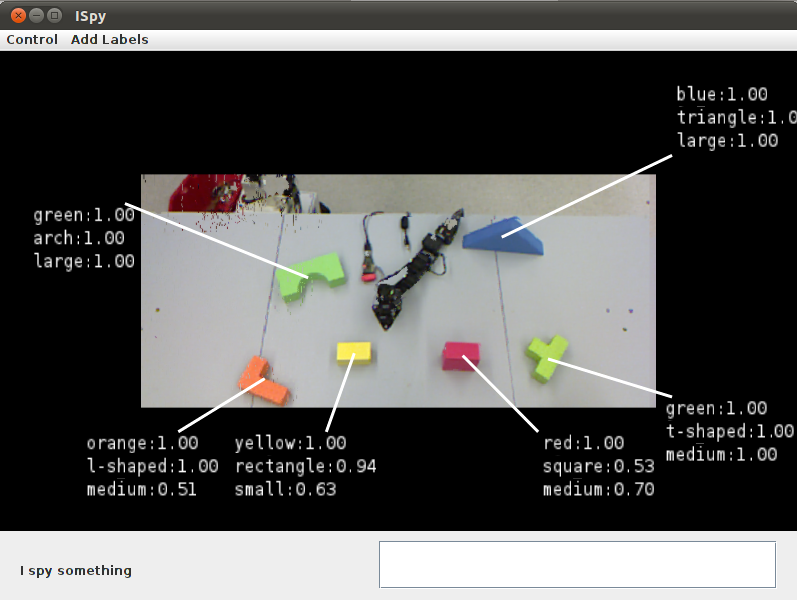
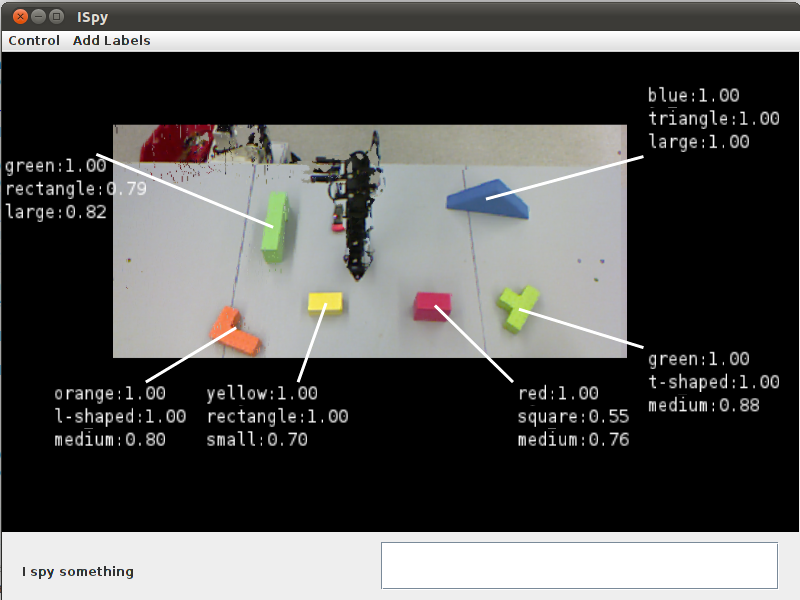
added scenario

diff --git a/finalReport/finalReport.tex b/finalReport/finalReport.tex
@@ -310,10 +310,10 @@ prompted to identify the correct object. The thresholds for the incorrect
 labels are then increased so that in the future, the system will be more
 likely to nudge them.
 
-\xxx{Justify min/max}
 The thresholds are adjusted by a amount which decays with the number of
 threshold updates. Additionally, thresholds are clamped between a minimum of
-0.1 and a maximum of 0.95. Updates are calculated using the following formula:
+0.1 and a maximum of 0.95. By bounding the range of values we ensure that we are neither completely confident nor completely unconfident in our labeling. 
+Updates are calculated using the following formula:
 $$\mathrm{Thresh_{t}} = \mathrm{Thresh_{t-1}} + \lambda^t C change$$
 \[change = \left\{ \begin{array}{ll}
          1 & \mbox{if threshold should increase};\\
@@ -372,13 +372,7 @@ our object, a small sample of which are shown in Fig.~\ref{fig:images}. From
 these point clouds, we are able to extract features such as the HS features
 pictured in Fig.~\ref{fig:colordata}.
 
-\begin{figure}[h!]
-\centering
-    \includegraphics[width=.75\textwidth]{figures/screenshot.png}
-    \caption{The main interface for the system. For each object the best labels and associated confidences are displayed.}
-    \label{fig:screenshot}
-\end{figure}
-\section{Experimental Results}
+
 
 Our system, seen in figure \ref{fig:screenshot}, segments objects found in a
 predefined play area and labels them with the most confident shape, size, and
@@ -405,14 +399,7 @@ examples, and 1807 size examples;
     \includegraphics[height=1.6in]{figures/colorplot_noorange.eps}
     \label{fig:colordata}
 }
-\caption{Real world data is extracted from toy foam blocks. The blocks
-    themselves can be seen in \subref{fig:blocks}. Using a segmentation
-    algorithm, we extract the blocks from the Kinect data \subref{fig:images}
-    and generate feature vectors for each object.
-    Finally, we hand label the data for features such as color and shape for
-    classification training. In \subref{fig:colordata}, we see the actual
-    distribution of our training samples in the hue and saturation
-    dimensions.}
+\caption{}
 \label{fig:objects}
 \end{figure}
 
@@ -442,21 +429,33 @@ allows the system to determine which labels are inherently less informative.
         \hline
         Shape         & Accuracy (\%) & Color   & Accuracy (\%) & Size &Accuracy (\%) \\ \hline \hline
         Triangle      & 95.07                & Red     & 100.00               & Small   & 87.97               \\ \hline
-        T-shape       & 96.18                & Blue    & 100.00               & Medium  & 91.81               \\ \hline
-        L-shape       & 96.48                & Green   & 98.88                & Large   & 81.70               \\ \hline
-        Rectangle     & 90.54                & Yellow  & 100.00               & Overall & 86.11               \\ \hline
+        T-shape       & 96.18                & Blue    & 100.00               & Medium  &   81.70             \\ \hline
+        L-shape       & 96.48                & Green   & 98.88                & Large   & 91.81               \\ \hline
+        Rectangle     & 90.54                & Yellow  & 100.00               & ~  &   ~             \\ \hline
         Arch          & 93.86                & Orange  & 100.00               & ~       & ~                   \\ \hline
         Cylinder      & 90.94                & Purple  & 99.44                & ~       & ~                   \\ \hline
-        Half-cylinder & 67.50                & Overall & 99.73                & ~       & ~                   \\ \hline
-        Square        & 68.21                & ~       & ~                    & ~       & ~                   \\ \hline
-        Overall       & 90.45                & ~       & ~                    & ~       & ~                   \\
+        Half-cylinder & 67.50                & ~        & ~                     & ~       & ~                   \\ \hline
+        Square        & 68.21                & ~       & ~                      & ~       & ~                   \\ \hline
+        Overall       & 90.45                & Overall       & 99.73         & Overall      & 86.11                   \\
         \hline
     \end{tabular}
     \caption{Results of LOOCV on nearly 2000 training examples for color, shape, and size.}
 	\label{tbl:testresults}
 \end{table}
 
+\begin{figure}[h!]
+\centering
+    \includegraphics[width=.75\textwidth]{figures/screenshot.png}
+    \caption{The main interface for the system. For each object the best labels and associated confidences are displayed. The setup shown is used in the scenario presented in Sec~\ref{sec:scenario}}
+    \label{fig:screenshot}
+\end{figure}
+\section{Experimental Results}
+
 \subsection{Example Scenario}
+\label{sec:scenario}
+As an example demonstration we setup the environment as shown in Fig.~\ref{fig:screenshot}. All confidence thresholds were set to the default values of .95. We first told the system that we spied an medium, l-shaped block. Because the system could see an object matching that exact description it immediately pointed to it and asked for feedback. We responded by giving a positive confirmation. The system then added the object as a trianing example for the labels medium and l-shaped. In addition, because the threshold for medium was above the confidence value, the system lowered its threshold. 
+
+We then told the system that we spied a green arch. The system did not perceieve an arch because it was oriented with the concave surface obscured from the camera, and thus looked like a rectangle. The system saw two green objects. The t-shaped block had a confidence higher than the threshold and so was not considered. The green object labeled as a rectangle has a confidence lower than the threshold for rectangles, so the system swept the block and knocked it on its side. It could therefore classify the object correctly as an arch and so pointed to it and again asked for feedback and the user responded in kind.
 
 \section{Future Work}
 \label{sec:future-work}
